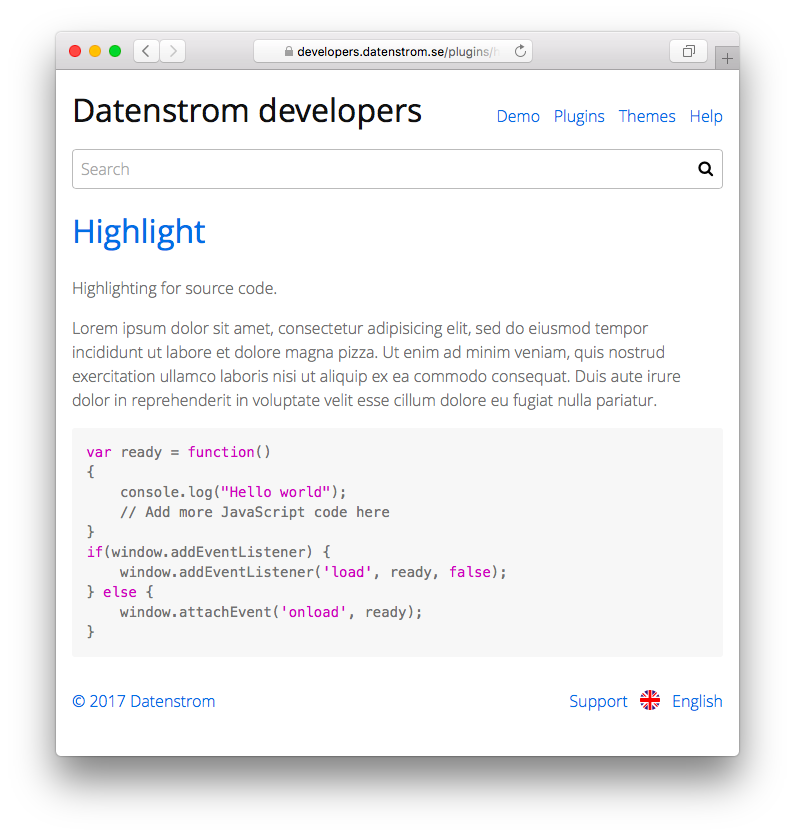
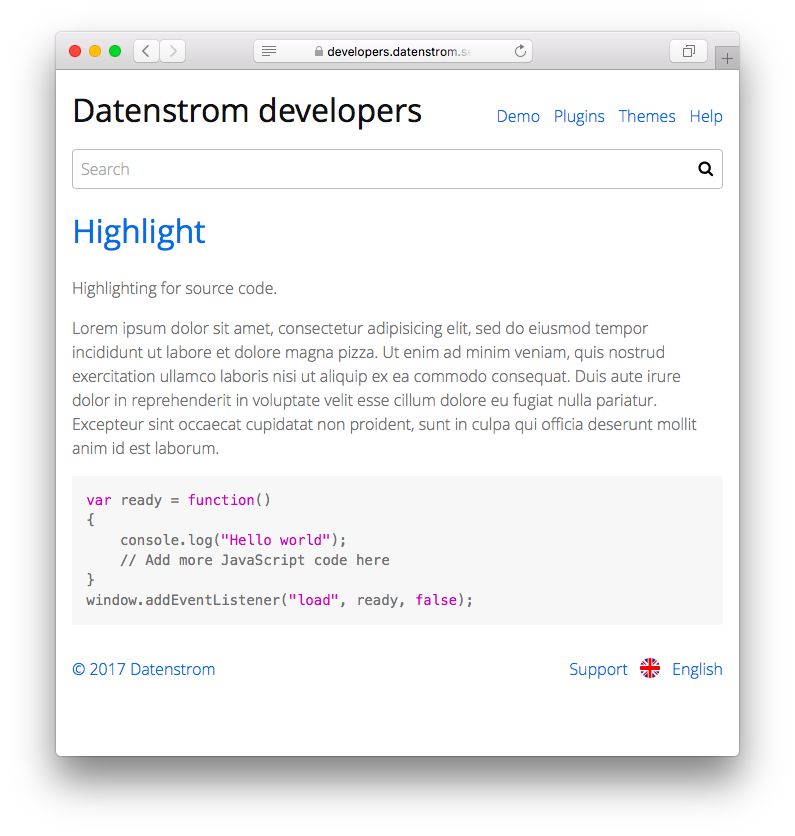
Plugins update (removed IE8/IE9 support)

diff --git a/highlight/README.md b/highlight/README.md
@@ -28,11 +28,7 @@ Highlighting of JavaScript code:
         console.log("Hello world");
         // Add more JavaScript code here
     }
-    if(window.addEventListener) {
-        window.addEventListener('load', ready, false);
-    } else {
-        window.attachEvent('onload', ready);
-    }
+    window.addEventListener('load', ready, false);
     ```
 
 Highlighting of HTML code, with and without line numbers:
